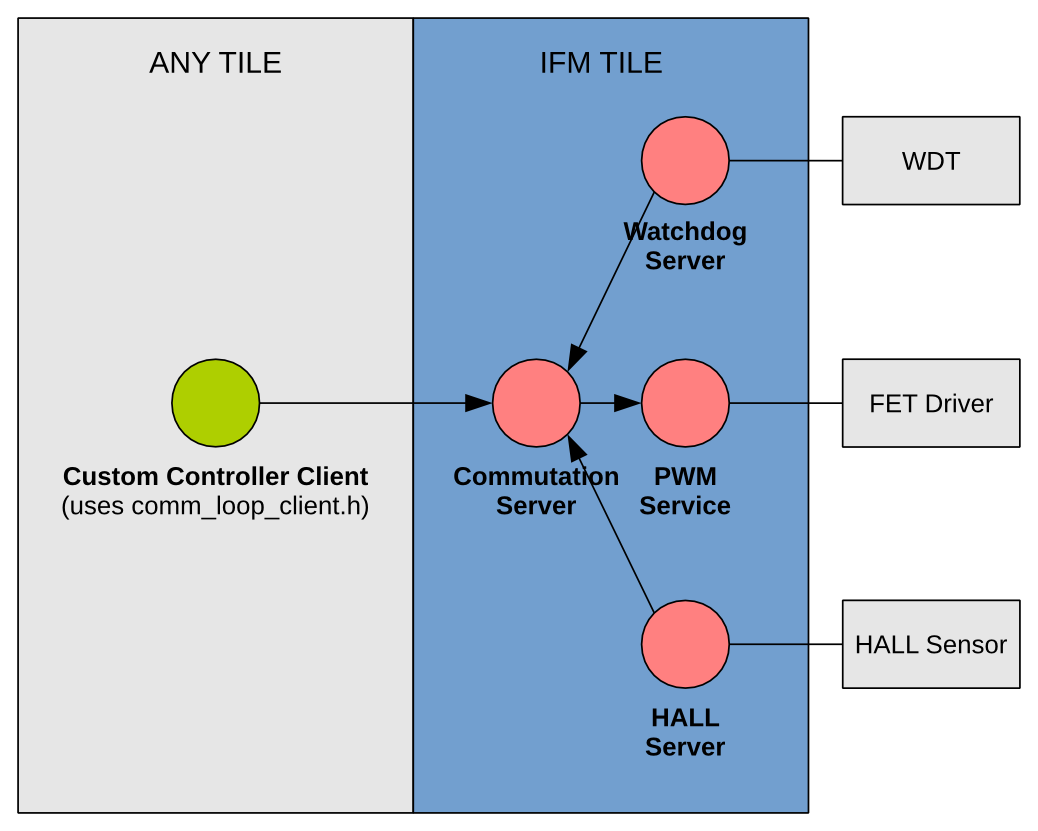
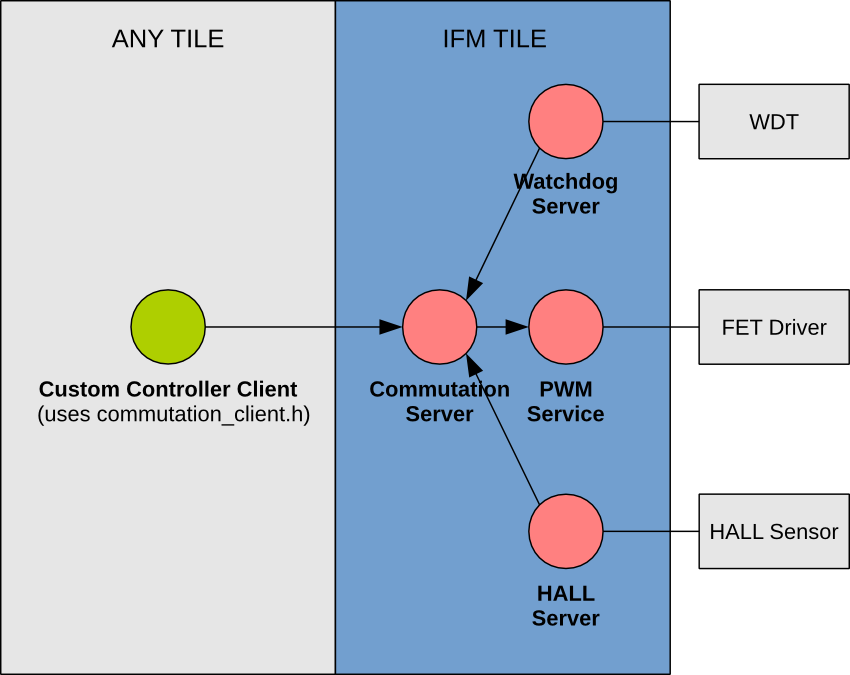
rename files in module_commutation and fix affected includes

diff --git a/module_commutation/include/commutation_server.h b/module_commutation/include/commutation_server.h
@@ -1,5 +1,5 @@
 /**
- * @file comm_loop_server.h
+ * @file commutation_server.h
  * @brief Commutation Loop based on sinusoidal commutation method
  * @author Ludwig Orgler <lorgler@synapticon.com>
  * @author Pavan Kanajar <pkanajar@synapticon.com>
@@ -8,7 +8,7 @@
 
 #pragma once
 
-#include <comm_loop_client.h>
+#include <commutation_client.h>
 #include <watchdog.h>
 #include <hall_client.h>
 #include <qei_client.h>

diff --git a/module_commutation/include/commutation_client.h b/module_commutation/include/commutation_client.h
@@ -1,6 +1,6 @@
 /**
- * @file comm_loop_client.h
- * @brief Commutation Loop Client functions
+ * @file commutation_client.h
+ * @brief Commutation Client functions
  * @author Pavan Kanajar <pkanajar@synapticon.com>
  * @author Ludwig Orgler <lorgler@synapticon.com>
  * @author Martin Schwarz <mschwarz@synapticon.com>

diff --git a/module_commutation/include/auto_calib_hall.h b/module_commutation/include/auto_calib_hall.h
@@ -9,7 +9,7 @@
 
 #include <hall_client.h>
 #include <qei_client.h>
-#include <comm_loop_client.h>
+#include <commutation_client.h>
 #include <refclk.h>
 #include <velocity_ctrl_client.h>
 #include <internal_config.h>

diff --git a/module_commutation/include/auto_calib_qei.h b/module_commutation/include/auto_calib_qei.h
@@ -2,7 +2,7 @@
 
 #include <hall_client.h>
 #include <qei_client.h>
-#include <comm_loop_client.h>
+#include <commutation_client.h>
 #include <refclk.h>
 #include <velocity_ctrl_client.h>
 #include <internal_config.h>

diff --git a/module_communication/include/comm.h b/module_communication/include/comm.h
@@ -10,7 +10,7 @@
 #include <qei_config.h>
 #include <internal_config.h>
 #include <ctrlproto.h>
-#include <comm_loop_client.h>
+#include <commutation_client.h>
 
 /**
  * @brief Get target torque from Ethercat

diff --git a/module_ctrl_loops/include/position_ctrl_server.h b/module_ctrl_loops/include/position_ctrl_server.h
@@ -10,7 +10,7 @@
 #include <refclk.h>
 #include <qei_client.h>
 #include <hall_client.h>
-#include <comm_loop_client.h>
+#include <commutation_client.h>
 
 /**
  * @brief Position Control Loop

diff --git a/module_ctrl_loops/include/torque_ctrl_server.h b/module_ctrl_loops/include/torque_ctrl_server.h
@@ -6,7 +6,7 @@
 
 #pragma once
 
-#include <comm_loop_client.h>
+#include <commutation_client.h>
 #include <hall_client.h>
 #include <qei_client.h>
 #include <internal_config.h>

diff --git a/module_commutation/doc/programming.rst b/module_commutation/doc/programming.rst
@@ -16,7 +16,7 @@ Step 1: Include the required headers
     #include <ioports.h>
     #include <hall_server.h>
     #include <pwm_service_inv.h>
-    #include <comm_loop_server.h>
+    #include <commutation_server.h>
     #include <refclk.h>
     #include <drive_modes.h>
     #include <statemachine.h>
